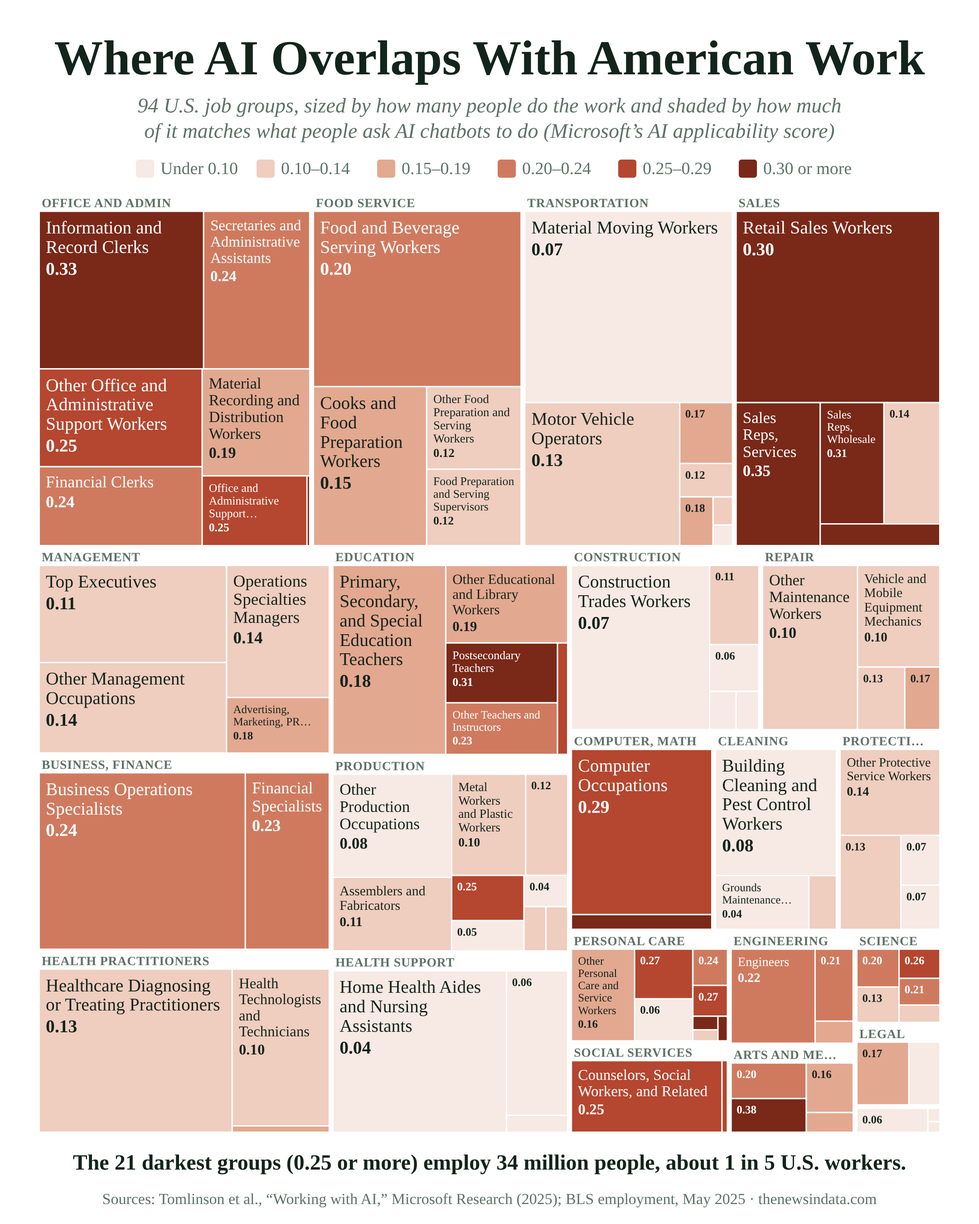
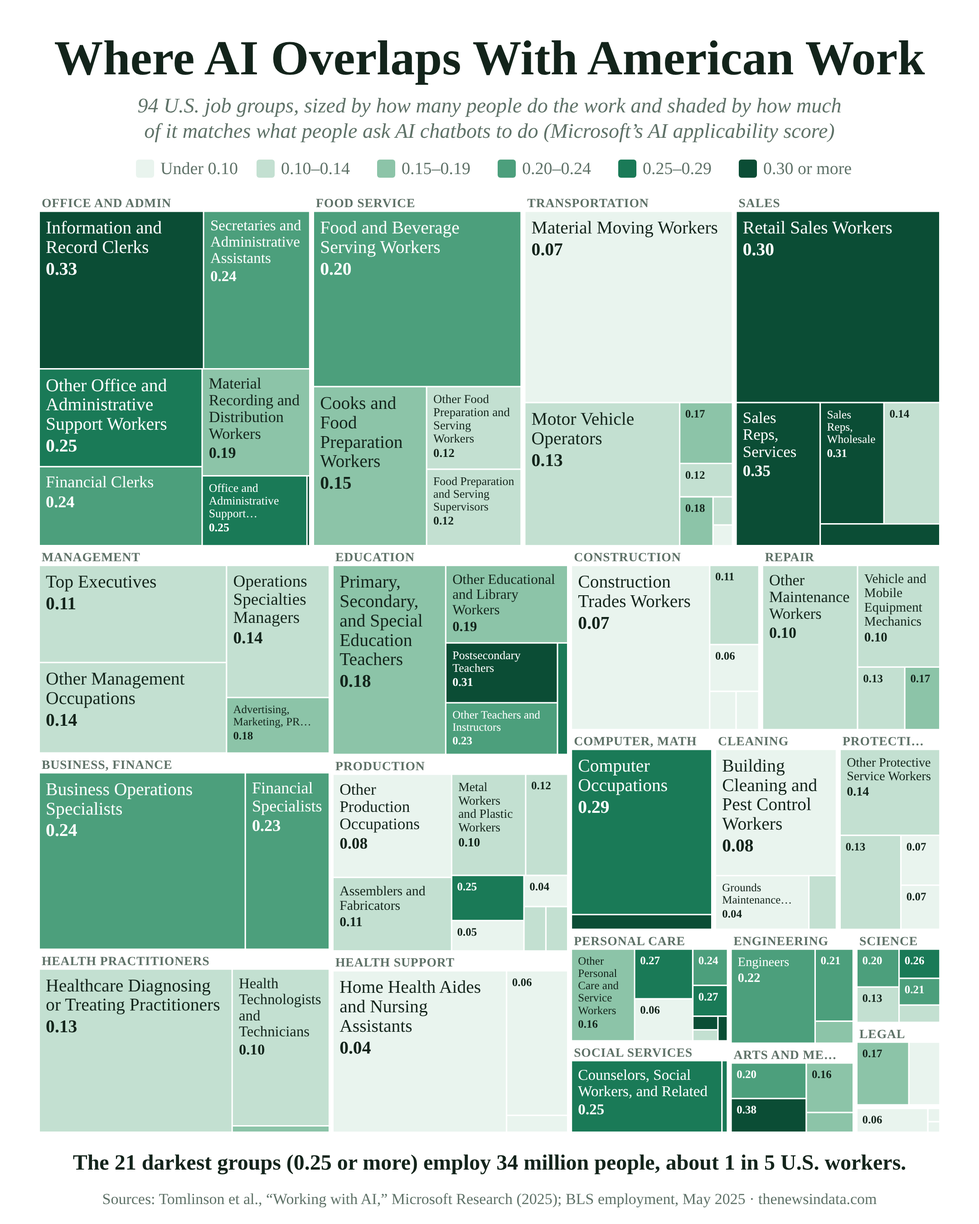
AI concern story: green interactive jobs treemap as first figure (filters, tooltips)
Claude-Session: https://claude.ai/code/session_01DsVn62vh9YHra7AHGauuvq

diff --git a/aiworry/embed.js b/aiworry/embed.js
@@ -71,7 +71,7 @@ function asks(o){
 /* Microsoft "Working with AI" (Tomlinson et al., v6, Dec. 2025) AI applicability score for 94 SOC minor groups; employment from BLS OEWS, May 2025. [group, score, workers] */
 var JOBS=[["Media and Communication Workers",0.38,613530,"27"],["Sales Representatives, Services",0.35,2371490,"41"],["Information and Record Clerks",0.33,5081880,"43"],["Mathematical Science Occupations",0.32,432400,"15"],["Tour and Travel Guides",0.32,53500,"39"],["Postsecondary Teachers",0.31,1370560,"25"],["Sales Reps., Wholesale and Manufacturing",0.31,1522990,"41"],["Communications Equipment Operators",0.3,38910,"43"],["Baggage Porters, Bellhops, and Concierges",0.3,77750,"39"],["Retail Sales Workers",0.3,7679690,"41"],["Other Sales and Related Workers",0.3,513930,"41"],["Computer Occupations",0.29,4827720,"15"],["Personal Care and Service Supervisors",0.27,243320,"39"],["Entertainment Attendants and Related",0.27,657210,"39"],["Religious Workers",0.26,95120,"21"],["Social Scientists and Related",0.26,288600,"19"],["Librarians, Curators, and Archivists",0.25,234910,"25"],["Counselors, Social Workers, and Related",0.25,2573560,"21"],["Supervisors of Production Workers",0.25,673430,"51"],["Other Office and Administrative Support Workers",0.25,3126550,"43"],["Office and Administrative Support Supervisors",0.25,1436680,"43"],["Financial Clerks",0.24,2525690,"43"],["Secretaries and Administrative Assistants",0.24,3284600,"43"],["Business Operations Specialists",0.24,7485920,"13"],["Animal Care and Service Workers",0.24,285680,"39"],["Financial Specialists",0.23,3051310,"13"],["Other Teachers and Instructors",0.23,1183050,"25"],["Engineers",0.22,1800740,"17"],["Physical Scientists",0.21,264650,"19"],["Drafters and Engineering and Mapping Technicians",0.21,624930,"17"],["Life Scientists",0.2,386900,"19"],["Art and Design Workers",0.2,645970,"27"],["Food and Beverage Serving Workers",0.2,7175250,"35"],["Other Educational and Library Workers",0.19,1939010,"25"],["Material Recording and Distribution Workers",0.19,2259120,"43"],["Primary, Secondary, and Special Education Teachers",0.18,4373040,"25"],["Media and Communications Equipment Workers",0.18,224690,"27"],["Advertising, Marketing, PR, and Sales Managers",0.18,1167460,"11"],["Air Transportation Workers",0.18,320540,"53"],["Lawyers, Judges, and Related Workers",0.17,817400,"23"],["Transportation and Material Moving Supervisors",0.17,633400,"53"],["Architects, Surveyors, and Cartographers",0.17,191460,"17"],["Electrical and Electronic Equipment Mechanics",0.17,458290,"49"],["Other Healthcare Practitioners and Tech. Occupations",0.16,129610,"29"],["Sports Entertainers and Related",0.16,562100,"27"],["Other Personal Care and Service Workers",0.16,1318510,"39"],["Cooks and Food Preparation Workers",0.15,3544690,"35"],["Funeral Service Workers",0.14,63050,"39"],["Other Management Occupations",0.14,3468900,"11"],["Building, Grounds, and Maintenance Supervisors",0.14,309510,"37"],["Other Protective Service Workers",0.14,1802770,"33"],["Operations Specialties Managers",0.14,2775810,"11"],["Occupational Health and Safety Specialists",0.14,171200,"19"],["Supervisors of Sales Workers",0.14,1336190,"41"],["Law Enforcement Workers",0.13,1201970,"33"],["Life, Physical, and Social Science Technicians",0.13,361920,"19"],["Motor Vehicle Operators",0.13,4365780,"53"],["Healthcare Diagnosing or Treating Practitioners",0.13,6534980,"29"],["Installation, Maintenance, and Repair Supervisors",0.13,617500,"49"],["Rail Transportation Workers",0.12,107550,"53"],["Other Food Preparation and Serving Workers",0.12,1537520,"35"],["Food Preparation and Serving Supervisors",0.12,1423280,"35"],["Food Processing Workers",0.12,879430,"51"],["Other Transportation Workers",0.12,347240,"53"],["Woodworkers",0.12,199920,"51"],["Top Executives",0.11,3720520,"11"],["Construction and Extraction Supervisors",0.11,812210,"47"],["Assemblers and Fabricators",0.11,1801640,"51"],["Printing Workers",0.11,201290,"51"],["Health Technologists and Technicians",0.1,3159280,"29"],["Metal Workers and Plastic Workers",0.1,1545990,"51"],["Vehicle and Mobile Equipment Mechanics",0.1,1748920,"49"],["Other Maintenance Workers",0.1,3261490,"49"],["Water Transportation Workers",0.09,79400,"53"],["Other Production Occupations",0.08,2527750,"51"],["Building Cleaning and Pest Control Workers",0.08,3190260,"37"],["Firefighting and Prevention Workers",0.07,362570,"33"],["Protective Service Supervisors",0.07,409310,"33"],["Material Moving Workers",0.07,7823240,"53"],["Construction Trades Workers",0.07,4739450,"47"],["Personal Appearance Workers",0.06,556770,"39"],["Agricultural Workers",0.06,371340,"45"],["Other Construction and Related Workers",0.06,480270,"47"],["Legal Support Workers",0.06,488220,"23"],["Other Healthcare Support Occupations",0.06,1842810,"31"],["Helpers, Construction Trades",0.06,182090,"47"],["Farming, Fishing, and Forestry Supervisors",0.05,27960,"45"],["Occupational and Physical Therapy Assistants",0.05,216180,"31"],["Textile, Apparel, and Furnishings Workers",0.05,454710,"51"],["Extraction Workers",0.05,211130,"47"],["Home Health Aides and Nursing Assistants",0.04,5842680,"31"],["Grounds Maintenance Workers",0.04,1048490,"37"],["Plant and System Operators",0.04,281600,"51"],["Forest and Conservation Workers",0.03,35010,"45"]];
 var MAJ={"11": "Management", "13": "Business, finance", "15": "Computer, math", "17": "Engineering", "19": "Science", "21": "Social services", "23": "Legal", "25": "Education", "27": "Arts and media", "29": "Health practitioners", "31": "Health support", "33": "Protective", "35": "Food service", "37": "Cleaning", "39": "Personal care", "41": "Sales", "43": "Office and admin", "45": "Farming and forestry", "47": "Construction", "49": "Repair", "51": "Production", "53": "Transportation"};
-var JBINS=[[0.30,'#7A2818','0.30 or more'],[0.25,'#B5462F','0.25–0.29'],[0.20,'#CF7A5F','0.20–0.24'],[0.15,'#E3A890','0.15–0.19'],[0.10,'#EFCDBF','0.10–0.14'],[0,'#F7E9E3','Under 0.10']];
+var JBINS=[[0.30,'#0B4D35','0.30 or more'],[0.25,'#1A7A57','0.25–0.29'],[0.20,'#4C9F7C','0.20–0.24'],[0.15,'#8CC4A8','0.15–0.19'],[0.10,'#C3E0D1','0.10–0.14'],[0,'#E9F4EE','Under 0.10']];
 var MCX=null;function tw(t,fz,b){if(!MCX)MCX=document.createElement('canvas').getContext('2d');MCX.font=(b?'700 ':'')+fz+'px "Times New Roman", Times, serif';return MCX.measureText(t).width}
 function jC(v){for(var i=0;i<JBINS.length;i++)if(v>=JBINS[i][0]-1e-9)return JBINS[i][1]}
 function jRank(n){var srt=JOBS.slice().sort(function(a,b){return b[1]-a[1]});var v=JOBS.filter(function(j){return j[0]===n})[0];return 1+JOBS.filter(function(j){return j[1]>v[1]}).length}
@@ -85,7 +85,7 @@ function jobsTree(o){
   root.children.forEach(function(g){var w=g.x1-g.x0,h=g.y1-g.y0,wm=root.leaves().filter(function(l){return l.parent===g}),avg=d3.sum(wm,function(l){return l.data.v*l.data.e})/d3.sum(wm,function(l){return l.data.e});
     s+='<rect x="'+g.x0+'" y="'+g.y0+'" width="'+w+'" height="'+h+'" fill="#fff"/>';
     if(w>70*fs&&h>60*fs){var t=g.data.m,cpl=Math.floor((w-8*fs)/(10.5*fs*.74));if(t.length>cpl)t=t.slice(0,Math.max(4,cpl-1))+'…';s+='<text x="'+(g.x0+3*fs)+'" y="'+(g.y0+11*fs)+'" font-size="'+(10.5*fs)+'" font-weight="700" letter-spacing=".03em" fill="'+SUB+'" font-family="'+SANS+'">'+t.toUpperCase().replace(/&/g,'&amp;')+'</text>'}});
-  root.leaves().forEach(function(l,i){var d=l.data,w=l.x1-l.x0,h=l.y1-l.y0,dark=d.v>=0.20,hit=q&&d.n.toLowerCase().indexOf(q)>-1,dim=q&&!hit;
+  root.leaves().forEach(function(l,i){var d=l.data,w=l.x1-l.x0,h=l.y1-l.y0,dark=d.v>=0.20,mt=o.match?o.match(d):(q?d.n.toLowerCase().indexOf(q)>-1:null),hit=mt===true&&!!(q||o.outline),dim=mt===false;
     s+='<g class="jt" data-n="'+d.n.replace(/"/g,'&quot;')+'" style="cursor:pointer"><rect class="jr" style="--d:'+(i*9)+'ms" x="'+l.x0.toFixed(1)+'" y="'+l.y0.toFixed(1)+'" width="'+w.toFixed(1)+'" height="'+h.toFixed(1)+'" fill="'+jC(d.v)+'"'+(dim?' opacity=".25"':'')+(hit?' stroke="'+INK+'" stroke-width="'+(2.5*fs)+'"':'')+'/>';
     var SHORT={'Sales Representatives, Services':'Sales Reps, Services','Sales Reps., Wholesale and Manufacturing':'Sales Reps, Wholesale','Media and Communication Workers':'Media Workers'};var avail=w-10*fs,fz=Math.max(9.5,Math.min(15,Math.sqrt(w*h)/9))*fs,lines=null,words=(SHORT[d.n]||d.n).split(' ');
     while(fz>=9*fs){var lh=fz*1.08,maxL=Math.floor((h-8*fs-fz*1.3)/lh);if(maxL<1){fz-=.5*fs;continue}
@@ -167,8 +167,10 @@ var CSS='.nid-aw{font-family:'+SERIF+';color:'+INK+';max-width:760px;margin:2.2e
 '@media (prefers-reduced-motion:reduce){.nid-aw .sg,.nid-aw .sl{transition:none}}'+
 '.nid-aw .lg{display:flex;flex-wrap:wrap;justify-content:center;gap:6px 14px;margin:4px auto 8px;font:600 12.5px/1.2 '+SANS+';color:'+SUB+'}.nid-aw .lg span{display:inline-flex;align-items:center;gap:5px}.nid-aw .lg i{width:14px;height:14px;border-radius:3px;display:inline-block;border:1px solid rgba(0,0,0,.06)}'+
 '.nid-aw .mp{min-height:200px;position:relative}.nid-aw .mp .ld{text-align:center;color:'+SUB+';font-style:italic;padding:80px 0}.nid-aw .mp path.mc{transition:filter .2s}.nid-aw .hd{font:600 13px/1.3 '+SANS+';color:'+SUB+';text-align:center;margin:18px 0 6px}'+
+'.nid-aw .sgm{display:flex;flex-wrap:wrap;justify-content:center;gap:6px;margin:0 auto 10px}.nid-aw .sgm button{font:600 13.5px/1 '+SANS+';border:1.5px solid #C9D7CF;background:#fff;color:'+G+';border-radius:999px;padding:9px 14px;cursor:pointer;min-height:38px}.nid-aw .sgm button.on{background:'+G+';border-color:'+G+';color:#fff}'+
+'.nid-aw .tt{position:absolute;display:none;pointer-events:none;z-index:5;background:'+INK+';color:#fff;border-radius:8px;padding:7px 10px;font:13px/1.3 '+SANS+';max-width:240px;box-shadow:0 6px 18px rgba(0,0,0,.18)}.nid-aw .tt b{display:block;font:700 14px/1.25 '+SERIF+';margin-bottom:2px}.nid-aw .tt span{opacity:.85}'+
 '.nid-aw .js{display:block;width:100%;max-width:420px;margin:0 auto 8px;box-sizing:border-box;padding:11px 16px;font:16px '+SANS+';border:1.5px solid #C9D7CF;border-radius:999px;outline:none}.nid-aw .js:focus{border-color:'+G+'}'+
-'.nid-aw .tm{min-height:240px}.nid-aw .tm .ld{text-align:center;color:'+SUB+';font-style:italic;padding:100px 0}.nid-aw .jr{transition:opacity .5s ease;transition-delay:var(--d)}.nid-aw.pre .jr{opacity:0}.nid-aw .jt:hover .jr{filter:brightness(.9)}'+
+'.nid-aw .tm{min-height:240px}.nid-aw .tm .ld{text-align:center;color:'+SUB+';font-style:italic;padding:100px 0}.nid-aw .jr{transition:opacity .5s ease;transition-delay:var(--d)}.nid-aw.pre .jr{opacity:0}.nid-aw .jt:hover .jr{filter:brightness(.9)}#nid-aiw-jobs .det{border-left-color:'+G+';background:#F1F8F4}#nid-aiw-jobs .det .k{color:'+G+'}'+
 '.nid-aw button:focus-visible,.nid-aw input:focus-visible{outline:3px solid #7FC4A6;outline-offset:2px}';
 function css(){if(document.getElementById('nid-aw-css'))return;var st=document.createElement('style');st.id='nid-aw-css';st.textContent=CSS;document.head.appendChild(st)}
 function hardStyle(root){var D={ti:'font-family:"Times New Roman",Times,serif;font-size:clamp(1.3em,4.4vw,1.75em);font-weight:700;line-height:1.12;margin:0 0 .3em;text-align:center;color:#13241B;font-style:normal',su:'font-family:"Times New Roman",Times,serif;font-style:italic;font-size:clamp(.95em,3vw,1.05em);line-height:1.35;margin:0 auto .9em;text-align:center;color:#5F7268;max-width:600px',q:'font-family:"Times New Roman",Times,serif;font-size:1.15em;font-weight:700;line-height:1.3;margin:0 0 .4em;text-align:center;color:#13241B;font-style:normal'};
@@ -227,15 +229,26 @@ function worldBlock(root){
   needD3().then(function(){return fetch(TOPO).then(function(r){return r.json()})}).then(function(t){topo=t;draw()}).catch(function(){mp.innerHTML=''});
 }
 function jobsBlock(root){
-  css();root.classList.add('nid-aw');var q='',sel=null,ok=false;
+  css();root.classList.add('nid-aw');var q='',mode='all',ok=false;
+  var MODES={all:['All jobs',null],hi:['Most overlap (0.25+)',function(d){return d.v>=0.25-1e-9}],lo:['Least overlap (under 0.10)',function(d){return d.v<0.10}]};
   root.innerHTML='<p class="ti">Where AI Overlaps With American Work</p><p class="su">Each tile is one of 94 job groups, sized by how many Americans do that work and shaded by how much of it matches what people ask AI chatbots to do.</p>'+
-   '<input class="js" type="search" placeholder="Find your job: teacher, nurse, sales…" aria-label="Find a job group">'+jLegend()+'<div class="tm"><div class="ld">Loading chart…</div></div><div class="det" aria-live="polite"></div>';
-  var tm=root.querySelector('.tm'),det=root.querySelector('.det'),inp=root.querySelector('.js');
-  function info(n){var j=JOBS.filter(function(x){return x[0]===n})[0];if(!j)return;var r=jRank(n);det.innerHTML='<span class="k">'+n+'</span>AI applicability score '+j[1].toFixed(2)+', ranked '+r+' of 94. About '+fmtM(j[2])+' Americans work in this group.'}
-  function draw(){if(!ok)return;var n=narrow(root);tm.innerHTML=jobsTree(n?{W:440,H:640,fs:.92,q:q}:{W:760,H:560,q:q}).svg;
-    [].forEach.call(tm.querySelectorAll('.jt'),function(g){g.addEventListener('click',function(){info(g.getAttribute('data-n'));act('tap')})})}
-  inp.addEventListener('input',function(){q=inp.value.trim();draw();if(q){var m=JOBS.filter(function(j){return j[0].toLowerCase().indexOf(q.toLowerCase())>-1});if(m.length)info(m[0][0]);else det.innerHTML='<span class="k">No match</span>Try a broader word, like “sales,” “health” or “teacher.”'}});
-  det.innerHTML='<span class="k">The darkest tiles</span>The 21 groups scoring 0.25 or more employ 34 million people, about one in five U.S. workers. Tap any tile.';
+   '<div class="sgm" role="group" aria-label="Highlight">'+Object.keys(MODES).map(function(k){return '<button type="button" data-m="'+k+'"'+(k==='all'?' class="on"':'')+'>'+MODES[k][0]+'</button>'}).join('')+'</div>'+
+   '<input class="js" type="search" placeholder="Find your job: teacher, nurse, sales…" aria-label="Find a job group">'+jLegend()+'<div class="tm"><div class="ld">Loading chart…</div></div><div class="tt" aria-hidden="true"></div><div class="det" aria-live="polite"></div>';
+  var tm=root.querySelector('.tm'),det=root.querySelector('.det'),inp=root.querySelector('.js'),tt=root.querySelector('.tt');
+  function J(n){return JOBS.filter(function(x){return x[0]===n})[0]}
+  function info(n){var j=J(n);if(!j)return;var r=jRank(n);det.innerHTML='<span class="k">'+n+'</span>AI applicability score '+j[1].toFixed(2)+', ranked '+r+' of 94. About '+fmtM(j[2])+' Americans work in this group.'}
+  function summary(){if(mode==='hi')det.innerHTML='<span class="k">Most overlap</span>21 job groups score 0.25 or more. Together they employ 34 million people, about one in five U.S. workers, mostly in office, sales, media and computer work.';
+    else if(mode==='lo')det.innerHTML='<span class="k">Least overlap</span>Groups scoring under 0.10 employ 31 million people, also about one in five workers: hands-on jobs in health care, construction, cleaning, moving goods and production.';
+    else det.innerHTML='<span class="k">How to read it</span>Darker green means more of a job’s work matches what people use AI chat for. Hover or tap a tile, try the buttons, or search for your job.'}
+  function match(){if(q){var ql=q.toLowerCase();return function(d){return d.n.toLowerCase().indexOf(ql)>-1}}return MODES[mode][1]}
+  function tip(e,n){var j=J(n);if(!j)return;var r=root.getBoundingClientRect(),x=e.clientX-r.left,y=e.clientY-r.top;tt.innerHTML='<b>'+n+'</b><span>Score '+j[1].toFixed(2)+' · '+fmtM(j[2])+' workers</span>';tt.style.display='block';var w=tt.offsetWidth;tt.style.left=Math.max(4,Math.min(r.width-w-4,x-w/2))+'px';tt.style.top=(y-tt.offsetHeight-14)+'px'}
+  function draw(){if(!ok)return;var n=narrow(root);tm.innerHTML=jobsTree(Object.assign(n?{W:440,H:640,fs:.92}:{W:760,H:560},{q:'',match:match(),outline:!!q})).svg;
+    [].forEach.call(tm.querySelectorAll('.jt'),function(g){var nm=g.getAttribute('data-n');
+      g.addEventListener('click',function(e){info(nm);tip(e,nm);act('tap')});
+      g.addEventListener('mousemove',function(e){tip(e,nm)});g.addEventListener('mouseleave',function(){tt.style.display='none'})})}
+  [].forEach.call(root.querySelectorAll('.sgm button'),function(b){b.addEventListener('click',function(){mode=b.getAttribute('data-m');q='';inp.value='';[].forEach.call(root.querySelectorAll('.sgm button'),function(x){x.classList.toggle('on',x===b)});draw();summary();act('tap')})});
+  inp.addEventListener('input',function(){q=inp.value.trim();draw();if(q){var m=JOBS.filter(function(j){return j[0].toLowerCase().indexOf(q.toLowerCase())>-1});if(m.length)info(m[0][0]);else det.innerHTML='<span class="k">No match</span>Try a broader word, like “sales,” “health” or “teacher.”'}else summary()});
+  summary();
   needD3().then(function(){ok=true;root.classList.add('pre');draw();setTimeout(function(){root.classList.remove('pre')},60)}).catch(function(){tm.innerHTML=''});
   resize(root,draw);
 }

diff --git a/aiworry/src/embed.src.js b/aiworry/src/embed.src.js
@@ -71,7 +71,7 @@ function asks(o){
 /* Microsoft "Working with AI" (Tomlinson et al., v6, Dec. 2025) AI applicability score for 94 SOC minor groups; employment from BLS OEWS, May 2025. [group, score, workers] */
 var JOBS=[["Media and Communication Workers",0.38,613530,"27"],["Sales Representatives, Services",0.35,2371490,"41"],["Information and Record Clerks",0.33,5081880,"43"],["Mathematical Science Occupations",0.32,432400,"15"],["Tour and Travel Guides",0.32,53500,"39"],["Postsecondary Teachers",0.31,1370560,"25"],["Sales Reps., Wholesale and Manufacturing",0.31,1522990,"41"],["Communications Equipment Operators",0.3,38910,"43"],["Baggage Porters, Bellhops, and Concierges",0.3,77750,"39"],["Retail Sales Workers",0.3,7679690,"41"],["Other Sales and Related Workers",0.3,513930,"41"],["Computer Occupations",0.29,4827720,"15"],["Personal Care and Service Supervisors",0.27,243320,"39"],["Entertainment Attendants and Related",0.27,657210,"39"],["Religious Workers",0.26,95120,"21"],["Social Scientists and Related",0.26,288600,"19"],["Librarians, Curators, and Archivists",0.25,234910,"25"],["Counselors, Social Workers, and Related",0.25,2573560,"21"],["Supervisors of Production Workers",0.25,673430,"51"],["Other Office and Administrative Support Workers",0.25,3126550,"43"],["Office and Administrative Support Supervisors",0.25,1436680,"43"],["Financial Clerks",0.24,2525690,"43"],["Secretaries and Administrative Assistants",0.24,3284600,"43"],["Business Operations Specialists",0.24,7485920,"13"],["Animal Care and Service Workers",0.24,285680,"39"],["Financial Specialists",0.23,3051310,"13"],["Other Teachers and Instructors",0.23,1183050,"25"],["Engineers",0.22,1800740,"17"],["Physical Scientists",0.21,264650,"19"],["Drafters and Engineering and Mapping Technicians",0.21,624930,"17"],["Life Scientists",0.2,386900,"19"],["Art and Design Workers",0.2,645970,"27"],["Food and Beverage Serving Workers",0.2,7175250,"35"],["Other Educational and Library Workers",0.19,1939010,"25"],["Material Recording and Distribution Workers",0.19,2259120,"43"],["Primary, Secondary, and Special Education Teachers",0.18,4373040,"25"],["Media and Communications Equipment Workers",0.18,224690,"27"],["Advertising, Marketing, PR, and Sales Managers",0.18,1167460,"11"],["Air Transportation Workers",0.18,320540,"53"],["Lawyers, Judges, and Related Workers",0.17,817400,"23"],["Transportation and Material Moving Supervisors",0.17,633400,"53"],["Architects, Surveyors, and Cartographers",0.17,191460,"17"],["Electrical and Electronic Equipment Mechanics",0.17,458290,"49"],["Other Healthcare Practitioners and Tech. Occupations",0.16,129610,"29"],["Sports Entertainers and Related",0.16,562100,"27"],["Other Personal Care and Service Workers",0.16,1318510,"39"],["Cooks and Food Preparation Workers",0.15,3544690,"35"],["Funeral Service Workers",0.14,63050,"39"],["Other Management Occupations",0.14,3468900,"11"],["Building, Grounds, and Maintenance Supervisors",0.14,309510,"37"],["Other Protective Service Workers",0.14,1802770,"33"],["Operations Specialties Managers",0.14,2775810,"11"],["Occupational Health and Safety Specialists",0.14,171200,"19"],["Supervisors of Sales Workers",0.14,1336190,"41"],["Law Enforcement Workers",0.13,1201970,"33"],["Life, Physical, and Social Science Technicians",0.13,361920,"19"],["Motor Vehicle Operators",0.13,4365780,"53"],["Healthcare Diagnosing or Treating Practitioners",0.13,6534980,"29"],["Installation, Maintenance, and Repair Supervisors",0.13,617500,"49"],["Rail Transportation Workers",0.12,107550,"53"],["Other Food Preparation and Serving Workers",0.12,1537520,"35"],["Food Preparation and Serving Supervisors",0.12,1423280,"35"],["Food Processing Workers",0.12,879430,"51"],["Other Transportation Workers",0.12,347240,"53"],["Woodworkers",0.12,199920,"51"],["Top Executives",0.11,3720520,"11"],["Construction and Extraction Supervisors",0.11,812210,"47"],["Assemblers and Fabricators",0.11,1801640,"51"],["Printing Workers",0.11,201290,"51"],["Health Technologists and Technicians",0.1,3159280,"29"],["Metal Workers and Plastic Workers",0.1,1545990,"51"],["Vehicle and Mobile Equipment Mechanics",0.1,1748920,"49"],["Other Maintenance Workers",0.1,3261490,"49"],["Water Transportation Workers",0.09,79400,"53"],["Other Production Occupations",0.08,2527750,"51"],["Building Cleaning and Pest Control Workers",0.08,3190260,"37"],["Firefighting and Prevention Workers",0.07,362570,"33"],["Protective Service Supervisors",0.07,409310,"33"],["Material Moving Workers",0.07,7823240,"53"],["Construction Trades Workers",0.07,4739450,"47"],["Personal Appearance Workers",0.06,556770,"39"],["Agricultural Workers",0.06,371340,"45"],["Other Construction and Related Workers",0.06,480270,"47"],["Legal Support Workers",0.06,488220,"23"],["Other Healthcare Support Occupations",0.06,1842810,"31"],["Helpers, Construction Trades",0.06,182090,"47"],["Farming, Fishing, and Forestry Supervisors",0.05,27960,"45"],["Occupational and Physical Therapy Assistants",0.05,216180,"31"],["Textile, Apparel, and Furnishings Workers",0.05,454710,"51"],["Extraction Workers",0.05,211130,"47"],["Home Health Aides and Nursing Assistants",0.04,5842680,"31"],["Grounds Maintenance Workers",0.04,1048490,"37"],["Plant and System Operators",0.04,281600,"51"],["Forest and Conservation Workers",0.03,35010,"45"]];
 var MAJ={"11": "Management", "13": "Business, finance", "15": "Computer, math", "17": "Engineering", "19": "Science", "21": "Social services", "23": "Legal", "25": "Education", "27": "Arts and media", "29": "Health practitioners", "31": "Health support", "33": "Protective", "35": "Food service", "37": "Cleaning", "39": "Personal care", "41": "Sales", "43": "Office and admin", "45": "Farming and forestry", "47": "Construction", "49": "Repair", "51": "Production", "53": "Transportation"};
-var JBINS=[[0.30,'#7A2818','0.30 or more'],[0.25,'#B5462F','0.25–0.29'],[0.20,'#CF7A5F','0.20–0.24'],[0.15,'#E3A890','0.15–0.19'],[0.10,'#EFCDBF','0.10–0.14'],[0,'#F7E9E3','Under 0.10']];
+var JBINS=[[0.30,'#0B4D35','0.30 or more'],[0.25,'#1A7A57','0.25–0.29'],[0.20,'#4C9F7C','0.20–0.24'],[0.15,'#8CC4A8','0.15–0.19'],[0.10,'#C3E0D1','0.10–0.14'],[0,'#E9F4EE','Under 0.10']];
 var MCX=null;function tw(t,fz,b){if(!MCX)MCX=document.createElement('canvas').getContext('2d');MCX.font=(b?'700 ':'')+fz+'px "Times New Roman", Times, serif';return MCX.measureText(t).width}
 function jC(v){for(var i=0;i<JBINS.length;i++)if(v>=JBINS[i][0]-1e-9)return JBINS[i][1]}
 function jRank(n){var srt=JOBS.slice().sort(function(a,b){return b[1]-a[1]});var v=JOBS.filter(function(j){return j[0]===n})[0];return 1+JOBS.filter(function(j){return j[1]>v[1]}).length}
@@ -85,7 +85,7 @@ function jobsTree(o){
   root.children.forEach(function(g){var w=g.x1-g.x0,h=g.y1-g.y0,wm=root.leaves().filter(function(l){return l.parent===g}),avg=d3.sum(wm,function(l){return l.data.v*l.data.e})/d3.sum(wm,function(l){return l.data.e});
     s+='<rect x="'+g.x0+'" y="'+g.y0+'" width="'+w+'" height="'+h+'" fill="#fff"/>';
     if(w>70*fs&&h>60*fs){var t=g.data.m,cpl=Math.floor((w-8*fs)/(10.5*fs*.74));if(t.length>cpl)t=t.slice(0,Math.max(4,cpl-1))+'…';s+='<text x="'+(g.x0+3*fs)+'" y="'+(g.y0+11*fs)+'" font-size="'+(10.5*fs)+'" font-weight="700" letter-spacing=".03em" fill="'+SUB+'" font-family="'+SANS+'">'+t.toUpperCase().replace(/&/g,'&amp;')+'</text>'}});
-  root.leaves().forEach(function(l,i){var d=l.data,w=l.x1-l.x0,h=l.y1-l.y0,dark=d.v>=0.20,hit=q&&d.n.toLowerCase().indexOf(q)>-1,dim=q&&!hit;
+  root.leaves().forEach(function(l,i){var d=l.data,w=l.x1-l.x0,h=l.y1-l.y0,dark=d.v>=0.20,mt=o.match?o.match(d):(q?d.n.toLowerCase().indexOf(q)>-1:null),hit=mt===true&&!!(q||o.outline),dim=mt===false;
     s+='<g class="jt" data-n="'+d.n.replace(/"/g,'&quot;')+'" style="cursor:pointer"><rect class="jr" style="--d:'+(i*9)+'ms" x="'+l.x0.toFixed(1)+'" y="'+l.y0.toFixed(1)+'" width="'+w.toFixed(1)+'" height="'+h.toFixed(1)+'" fill="'+jC(d.v)+'"'+(dim?' opacity=".25"':'')+(hit?' stroke="'+INK+'" stroke-width="'+(2.5*fs)+'"':'')+'/>';
     var SHORT={'Sales Representatives, Services':'Sales Reps, Services','Sales Reps., Wholesale and Manufacturing':'Sales Reps, Wholesale','Media and Communication Workers':'Media Workers'};var avail=w-10*fs,fz=Math.max(9.5,Math.min(15,Math.sqrt(w*h)/9))*fs,lines=null,words=(SHORT[d.n]||d.n).split(' ');
     while(fz>=9*fs){var lh=fz*1.08,maxL=Math.floor((h-8*fs-fz*1.3)/lh);if(maxL<1){fz-=.5*fs;continue}
@@ -167,8 +167,10 @@ var CSS='.nid-aw{font-family:'+SERIF+';color:'+INK+';max-width:760px;margin:2.2e
 '@media (prefers-reduced-motion:reduce){.nid-aw .sg,.nid-aw .sl{transition:none}}'+
 '.nid-aw .lg{display:flex;flex-wrap:wrap;justify-content:center;gap:6px 14px;margin:4px auto 8px;font:600 12.5px/1.2 '+SANS+';color:'+SUB+'}.nid-aw .lg span{display:inline-flex;align-items:center;gap:5px}.nid-aw .lg i{width:14px;height:14px;border-radius:3px;display:inline-block;border:1px solid rgba(0,0,0,.06)}'+
 '.nid-aw .mp{min-height:200px;position:relative}.nid-aw .mp .ld{text-align:center;color:'+SUB+';font-style:italic;padding:80px 0}.nid-aw .mp path.mc{transition:filter .2s}.nid-aw .hd{font:600 13px/1.3 '+SANS+';color:'+SUB+';text-align:center;margin:18px 0 6px}'+
+'.nid-aw .sgm{display:flex;flex-wrap:wrap;justify-content:center;gap:6px;margin:0 auto 10px}.nid-aw .sgm button{font:600 13.5px/1 '+SANS+';border:1.5px solid #C9D7CF;background:#fff;color:'+G+';border-radius:999px;padding:9px 14px;cursor:pointer;min-height:38px}.nid-aw .sgm button.on{background:'+G+';border-color:'+G+';color:#fff}'+
+'.nid-aw .tt{position:absolute;display:none;pointer-events:none;z-index:5;background:'+INK+';color:#fff;border-radius:8px;padding:7px 10px;font:13px/1.3 '+SANS+';max-width:240px;box-shadow:0 6px 18px rgba(0,0,0,.18)}.nid-aw .tt b{display:block;font:700 14px/1.25 '+SERIF+';margin-bottom:2px}.nid-aw .tt span{opacity:.85}'+
 '.nid-aw .js{display:block;width:100%;max-width:420px;margin:0 auto 8px;box-sizing:border-box;padding:11px 16px;font:16px '+SANS+';border:1.5px solid #C9D7CF;border-radius:999px;outline:none}.nid-aw .js:focus{border-color:'+G+'}'+
-'.nid-aw .tm{min-height:240px}.nid-aw .tm .ld{text-align:center;color:'+SUB+';font-style:italic;padding:100px 0}.nid-aw .jr{transition:opacity .5s ease;transition-delay:var(--d)}.nid-aw.pre .jr{opacity:0}.nid-aw .jt:hover .jr{filter:brightness(.9)}'+
+'.nid-aw .tm{min-height:240px}.nid-aw .tm .ld{text-align:center;color:'+SUB+';font-style:italic;padding:100px 0}.nid-aw .jr{transition:opacity .5s ease;transition-delay:var(--d)}.nid-aw.pre .jr{opacity:0}.nid-aw .jt:hover .jr{filter:brightness(.9)}#nid-aiw-jobs .det{border-left-color:'+G+';background:#F1F8F4}#nid-aiw-jobs .det .k{color:'+G+'}'+
 '.nid-aw button:focus-visible,.nid-aw input:focus-visible{outline:3px solid #7FC4A6;outline-offset:2px}';
 function css(){if(document.getElementById('nid-aw-css'))return;var st=document.createElement('style');st.id='nid-aw-css';st.textContent=CSS;document.head.appendChild(st)}
 function hardStyle(root){var D={ti:'font-family:"Times New Roman",Times,serif;font-size:clamp(1.3em,4.4vw,1.75em);font-weight:700;line-height:1.12;margin:0 0 .3em;text-align:center;color:#13241B;font-style:normal',su:'font-family:"Times New Roman",Times,serif;font-style:italic;font-size:clamp(.95em,3vw,1.05em);line-height:1.35;margin:0 auto .9em;text-align:center;color:#5F7268;max-width:600px',q:'font-family:"Times New Roman",Times,serif;font-size:1.15em;font-weight:700;line-height:1.3;margin:0 0 .4em;text-align:center;color:#13241B;font-style:normal'};
@@ -227,15 +229,26 @@ function worldBlock(root){
   needD3().then(function(){return fetch(TOPO).then(function(r){return r.json()})}).then(function(t){topo=t;draw()}).catch(function(){mp.innerHTML=''});
 }
 function jobsBlock(root){
-  css();root.classList.add('nid-aw');var q='',sel=null,ok=false;
+  css();root.classList.add('nid-aw');var q='',mode='all',ok=false;
+  var MODES={all:['All jobs',null],hi:['Most overlap (0.25+)',function(d){return d.v>=0.25-1e-9}],lo:['Least overlap (under 0.10)',function(d){return d.v<0.10}]};
   root.innerHTML='<p class="ti">Where AI Overlaps With American Work</p><p class="su">Each tile is one of 94 job groups, sized by how many Americans do that work and shaded by how much of it matches what people ask AI chatbots to do.</p>'+
-   '<input class="js" type="search" placeholder="Find your job: teacher, nurse, sales…" aria-label="Find a job group">'+jLegend()+'<div class="tm"><div class="ld">Loading chart…</div></div><div class="det" aria-live="polite"></div>';
-  var tm=root.querySelector('.tm'),det=root.querySelector('.det'),inp=root.querySelector('.js');
-  function info(n){var j=JOBS.filter(function(x){return x[0]===n})[0];if(!j)return;var r=jRank(n);det.innerHTML='<span class="k">'+n+'</span>AI applicability score '+j[1].toFixed(2)+', ranked '+r+' of 94. About '+fmtM(j[2])+' Americans work in this group.'}
-  function draw(){if(!ok)return;var n=narrow(root);tm.innerHTML=jobsTree(n?{W:440,H:640,fs:.92,q:q}:{W:760,H:560,q:q}).svg;
-    [].forEach.call(tm.querySelectorAll('.jt'),function(g){g.addEventListener('click',function(){info(g.getAttribute('data-n'));act('tap')})})}
-  inp.addEventListener('input',function(){q=inp.value.trim();draw();if(q){var m=JOBS.filter(function(j){return j[0].toLowerCase().indexOf(q.toLowerCase())>-1});if(m.length)info(m[0][0]);else det.innerHTML='<span class="k">No match</span>Try a broader word, like “sales,” “health” or “teacher.”'}});
-  det.innerHTML='<span class="k">The darkest tiles</span>The 21 groups scoring 0.25 or more employ 34 million people, about one in five U.S. workers. Tap any tile.';
+   '<div class="sgm" role="group" aria-label="Highlight">'+Object.keys(MODES).map(function(k){return '<button type="button" data-m="'+k+'"'+(k==='all'?' class="on"':'')+'>'+MODES[k][0]+'</button>'}).join('')+'</div>'+
+   '<input class="js" type="search" placeholder="Find your job: teacher, nurse, sales…" aria-label="Find a job group">'+jLegend()+'<div class="tm"><div class="ld">Loading chart…</div></div><div class="tt" aria-hidden="true"></div><div class="det" aria-live="polite"></div>';
+  var tm=root.querySelector('.tm'),det=root.querySelector('.det'),inp=root.querySelector('.js'),tt=root.querySelector('.tt');
+  function J(n){return JOBS.filter(function(x){return x[0]===n})[0]}
+  function info(n){var j=J(n);if(!j)return;var r=jRank(n);det.innerHTML='<span class="k">'+n+'</span>AI applicability score '+j[1].toFixed(2)+', ranked '+r+' of 94. About '+fmtM(j[2])+' Americans work in this group.'}
+  function summary(){if(mode==='hi')det.innerHTML='<span class="k">Most overlap</span>21 job groups score 0.25 or more. Together they employ 34 million people, about one in five U.S. workers, mostly in office, sales, media and computer work.';
+    else if(mode==='lo')det.innerHTML='<span class="k">Least overlap</span>Groups scoring under 0.10 employ 31 million people, also about one in five workers: hands-on jobs in health care, construction, cleaning, moving goods and production.';
+    else det.innerHTML='<span class="k">How to read it</span>Darker green means more of a job’s work matches what people use AI chat for. Hover or tap a tile, try the buttons, or search for your job.'}
+  function match(){if(q){var ql=q.toLowerCase();return function(d){return d.n.toLowerCase().indexOf(ql)>-1}}return MODES[mode][1]}
+  function tip(e,n){var j=J(n);if(!j)return;var r=root.getBoundingClientRect(),x=e.clientX-r.left,y=e.clientY-r.top;tt.innerHTML='<b>'+n+'</b><span>Score '+j[1].toFixed(2)+' · '+fmtM(j[2])+' workers</span>';tt.style.display='block';var w=tt.offsetWidth;tt.style.left=Math.max(4,Math.min(r.width-w-4,x-w/2))+'px';tt.style.top=(y-tt.offsetHeight-14)+'px'}
+  function draw(){if(!ok)return;var n=narrow(root);tm.innerHTML=jobsTree(Object.assign(n?{W:440,H:640,fs:.92}:{W:760,H:560},{q:'',match:match(),outline:!!q})).svg;
+    [].forEach.call(tm.querySelectorAll('.jt'),function(g){var nm=g.getAttribute('data-n');
+      g.addEventListener('click',function(e){info(nm);tip(e,nm);act('tap')});
+      g.addEventListener('mousemove',function(e){tip(e,nm)});g.addEventListener('mouseleave',function(){tt.style.display='none'})})}
+  [].forEach.call(root.querySelectorAll('.sgm button'),function(b){b.addEventListener('click',function(){mode=b.getAttribute('data-m');q='';inp.value='';[].forEach.call(root.querySelectorAll('.sgm button'),function(x){x.classList.toggle('on',x===b)});draw();summary();act('tap')})});
+  inp.addEventListener('input',function(){q=inp.value.trim();draw();if(q){var m=JOBS.filter(function(j){return j[0].toLowerCase().indexOf(q.toLowerCase())>-1});if(m.length)info(m[0][0]);else det.innerHTML='<span class="k">No match</span>Try a broader word, like “sales,” “health” or “teacher.”'}else summary()});
+  summary();
   needD3().then(function(){ok=true;root.classList.add('pre');draw();setTimeout(function(){root.classList.remove('pre')},60)}).catch(function(){tm.innerHTML=''});
   resize(root,draw);
 }

diff --git a/aiworry/post-body.html b/aiworry/post-body.html
@@ -1,8 +1,8 @@
 <style>.nid-a h2{margin:1.6em 0 .5em}.nid-a .nid-fig{margin:2.4em auto;max-width:620px}.nid-a .nid-fig img{width:100%;height:auto;display:block;border:1px solid #e6e3dd;border-radius:6px}.nid-a .nid-fig figcaption{font-size:.82em;color:#5f7268;margin-top:.5em;line-height:1.4}.nid-a .nid-method{font-size:.92em;margin-top:2em}</style><style>.nid-a .nid-rel{max-width:620px;margin:2.2em auto;font-family:-apple-system,"Helvetica Neue",Arial,sans-serif}.nid-a .nid-rel a{display:flex;gap:16px;align-items:center;padding:14px 16px;border:1px solid #e6e3dd;border-left:4px solid #007a55;border-radius:10px;background:#fff;text-decoration:none;color:#13241b}.nid-a .nid-rel a:hover{border-color:#007a55}.nid-a .nid-rel img{width:120px;height:80px;object-fit:cover;border-radius:6px;border:1px solid #e6e3dd;flex:none;display:block}.nid-a .nid-rel-k{display:block;font-size:12px;font-weight:700;letter-spacing:.07em;text-transform:uppercase;color:#007a55;margin-bottom:4px}.nid-a .nid-rel-t{display:block;font-family:"Times New Roman",Times,serif;font-size:20px;font-weight:700;line-height:1.2;color:#13241b}.nid-a .nid-rel-go{display:block;font-size:13px;font-weight:600;color:#007a55;margin-top:6px}@media(max-width:480px){.nid-a .nid-rel img{width:88px;height:66px}.nid-a .nid-rel-t{font-size:18px}}</style><div class="nid-a">
+<div id="nid-aiw-jobs" data-npc-after></div>
 <p>When Pew Research Center first asked Americans in November 2021 how the increased use of artificial intelligence in daily life made them feel, 37% said they were more concerned than excited and 18% said they were more excited than concerned, about two to one. In Pew’s newest survey, conducted June 22-28, 2026, 52% said they were more concerned and 9% said they were more excited, a ratio of more than five to one. Another 37% said they felt both about equally.</p>
 <p>Much of the worry is about work. In the same survey, 71% of Americans said AI will lead to fewer jobs over the next 20 years, up from 64% in 2024, and only 5% expected more jobs. Among adults under 30, 73% expected fewer jobs, up from 61%.</p>
-<p>Which jobs overlap most with what AI can already do? Microsoft researchers matched about 200,000 Bing Copilot conversations to the tasks in each occupation and gave 94 job groups an AI applicability score. Weighted by how many Americans hold each job, the groups that score 0.25 or higher employ 34 million people, about one in five U.S. workers.</p>
-<div id="nid-aiw-jobs" data-npc-after></div>
+<p>The chart at the top shows which jobs overlap most with what AI can already do. Microsoft researchers matched about 200,000 Bing Copilot conversations to the tasks in each occupation and gave 94 job groups an AI applicability score. Weighted by how many Americans hold each job, the groups that score 0.25 or higher employ 34 million people, about one in five U.S. workers.</p>
 <p>The overlap is highest in office, sales and media work. Media and communication workers have the top score, 0.38, followed by sales representatives for services (0.35) and information and record clerks (0.33), a group of 5 million people. It is lowest in hands-on jobs: home health aides and nursing assistants, 5.8 million workers, score 0.04. A high score means AI chat can help with much of a job’s work, not that the job will disappear. Our <a href="/stories/ai-already-covers-three-quarters-of-a-programmers-tasks-but-exposed-workers-arent-losing-jobs-yet">earlier look at AI and jobs</a> found no broad rise in unemployment among the most exposed workers so far.</p>
 <h2>Concern keeps climbing</h2>
 <div id="nid-aiw-trend"></div>
@@ -29,4 +29,4 @@
 <aside class="nid-rel" aria-label="Related story"><a href="/stories/three-ai-assistants-reached-a-billion-users-faster-than-any-social-app"><img src="https://images.squarespace-cdn.com/content/v1/6aca5c2deb6b5d250c28f6f6/1791820220967-M40O4PMN63T8SMUVCRDY/onegraph-preview-colors.png" alt="Chart of how fast apps reached a billion users" loading="lazy"><span><span class="nid-rel-k">Related · AI &amp; Tech</span><span class="nid-rel-t">Three AI Assistants Reached A Billion Users Faster Than Any Social App</span><span class="nid-rel-go">See the chart →</span></span></a></aside>
 <p class="nid-method"><em>How we counted: U.S. trend and age figures are from Pew Research Center surveys of U.S. adults on its American Trends Panel, 2021 through 2026 (the 2026 survey, n=3,488, was conducted June 22-28, 2026; the first, Nov. 1-7, 2021). Ratios divide the share more concerned than excited by the share more excited than concerned. Other U.S. surveys: Quinnipiac University (n=1,397, March 19-23, 2026; n=1,202, Sept. 24-27, 2026), Ipsos for ABC News and The Washington Post (n=2,545, Oct. 9-13, 2026) and Gallup/Bentley University (n=3,270, May 4-11, 2026), as compiled by Max Roser, Our World in Data, Nov. 16, 2026. Global median: Pew Research Center survey of 37 countries, Feb. 8-May 13, 2026. Job groups: AI applicability scores from Tomlinson et al., “Working with AI,” Microsoft Research (v6, Dec. 2025), Table 1, matched to May 2025 national employment for the same 94 occupation groups from the Bureau of Labor Statistics’ Occupational Employment and Wage Statistics; Pew’s jobs question is from the June 2026 survey. Country comparison: Ipsos AI Monitor 2025 (23,216 adults in 30 countries, March 21-April 4, 2025, online, mostly ages 16-74); the China figure (86.9%) is from Stanford HAI’s AI Index 2026, which notes that Ipsos supplied it separately. <a href="https://stories.thenewsindata.com/data/ai-applicability-and-employment-94-job-groups-2025.csv">Job group data (CSV)</a> · <a href="https://stories.thenewsindata.com/data/more-than-five-times-as-many-americans-are-more-concerned-than-excited-about-ai-up-from-about-two-to-one-in-2021.csv">Download our data (CSV)</a>.</em></p>
 </div>
-<script src="https://stories.thenewsindata.com/aiworry/embed.js?v=2"></script>
+<script src="https://stories.thenewsindata.com/aiworry/embed.js?v=3"></script>
